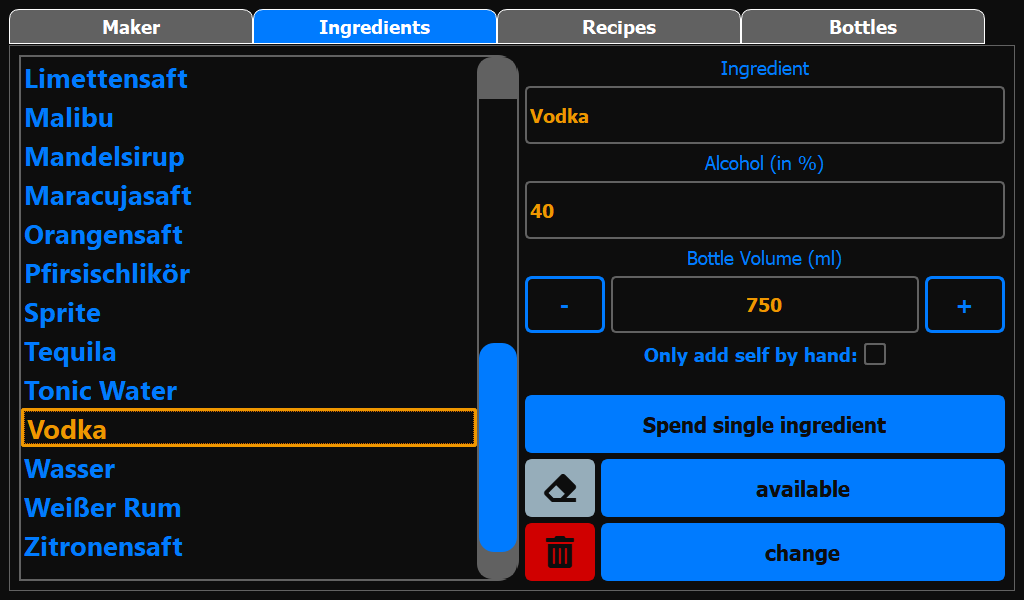
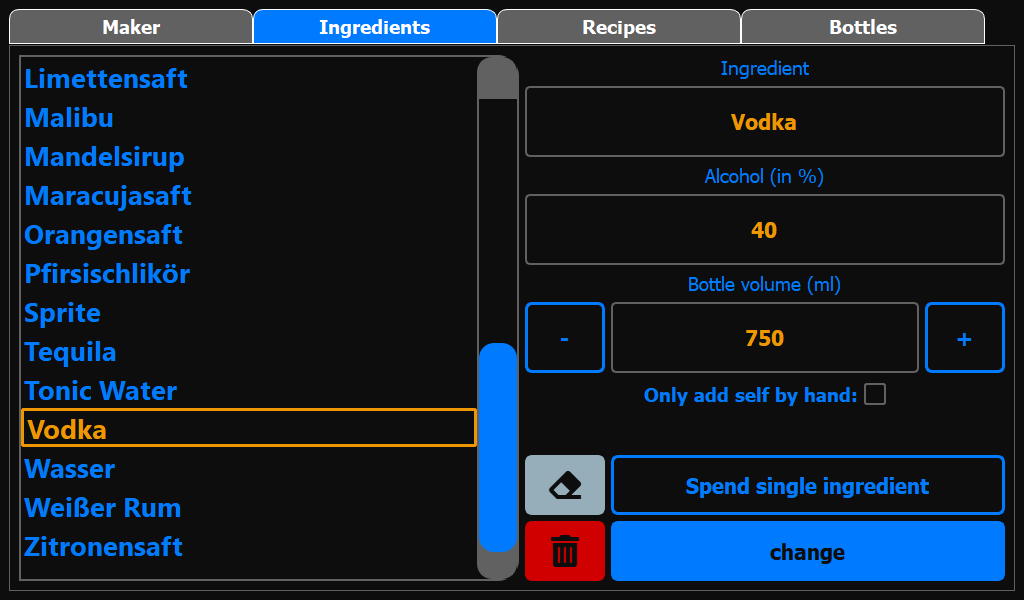
Updated to current layout

Changed region(s): [[0.5, 0.36, 1.0, 0.99], [0.5, 0.18, 1.0, 0.36], [0.75, 0.9, 0.8438, 0.96]]

diff --git a/src/ui_elements/cocktailmanager.py b/src/ui_elements/cocktailmanager.py
@@ -375,7 +375,7 @@ class Ui_MainWindow(object):
         self.gridLayout_6.setObjectName("gridLayout_6")
         self.PBZeinzelnd = QtWidgets.QPushButton(self.tab_ingredients)
         self.PBZeinzelnd.setMinimumSize(QtCore.QSize(0, 40))
-        self.PBZeinzelnd.setMaximumSize(QtCore.QSize(600, 200))
+        self.PBZeinzelnd.setMaximumSize(QtCore.QSize(16777215, 200))
         font = QtGui.QFont()
         font.setPointSize(16)
         font.setBold(True)
@@ -410,7 +410,7 @@ class Ui_MainWindow(object):
         self.horizontalLayout_21 = QtWidgets.QHBoxLayout()
         self.horizontalLayout_21.setObjectName("horizontalLayout_21")
         self.PBZminus = QtWidgets.QPushButton(self.tab_ingredients)
-        self.PBZminus.setMinimumSize(QtCore.QSize(80, 29))
+        self.PBZminus.setMinimumSize(QtCore.QSize(70, 29))
         self.PBZminus.setMaximumSize(QtCore.QSize(300, 200))
         font = QtGui.QFont()
         font.setPointSize(16)
@@ -431,7 +431,7 @@ class Ui_MainWindow(object):
         self.LEFlaschenvolumen.setObjectName("LEFlaschenvolumen")
         self.horizontalLayout_21.addWidget(self.LEFlaschenvolumen)
         self.PBZplus = QtWidgets.QPushButton(self.tab_ingredients)
-        self.PBZplus.setMinimumSize(QtCore.QSize(80, 29))
+        self.PBZplus.setMinimumSize(QtCore.QSize(70, 29))
         self.PBZplus.setMaximumSize(QtCore.QSize(300, 200))
         font = QtGui.QFont()
         font.setPointSize(16)
@@ -487,10 +487,10 @@ class Ui_MainWindow(object):
         self.gridLayout_6.addWidget(self.LEZutatRezept, 1, 0, 1, 3)
         self.horizontalLayout_24 = QtWidgets.QHBoxLayout()
         self.horizontalLayout_24.setObjectName("horizontalLayout_24")
-        spacerItem3 = QtWidgets.QSpacerItem(20, 20, QtWidgets.QSizePolicy.Expanding, QtWidgets.QSizePolicy.Minimum)
+        spacerItem3 = QtWidgets.QSpacerItem(40, 20, QtWidgets.QSizePolicy.Expanding, QtWidgets.QSizePolicy.Minimum)
         self.horizontalLayout_24.addItem(spacerItem3)
         self.CHBHand = QtWidgets.QCheckBox(self.tab_ingredients)
-        self.CHBHand.setMaximumSize(QtCore.QSize(300, 30))
+        self.CHBHand.setMaximumSize(QtCore.QSize(800, 30))
         font = QtGui.QFont()
         font.setPointSize(14)
         font.setBold(True)
@@ -501,7 +501,7 @@ class Ui_MainWindow(object):
         self.CHBHand.setTristate(False)
         self.CHBHand.setObjectName("CHBHand")
         self.horizontalLayout_24.addWidget(self.CHBHand)
-        spacerItem4 = QtWidgets.QSpacerItem(20, 20, QtWidgets.QSizePolicy.Expanding, QtWidgets.QSizePolicy.Minimum)
+        spacerItem4 = QtWidgets.QSpacerItem(40, 20, QtWidgets.QSizePolicy.Expanding, QtWidgets.QSizePolicy.Minimum)
         self.horizontalLayout_24.addItem(spacerItem4)
         self.gridLayout_6.addLayout(self.horizontalLayout_24, 6, 0, 1, 3)
         self.PBZdelete = QtWidgets.QPushButton(self.tab_ingredients)
@@ -1908,7 +1908,7 @@ class Ui_MainWindow(object):
         self.LBottleVolume.setText(_translate("MainWindow", "Flaschenvolume (ml)"))
         self.LEZutatRezept.setProperty("cssClass", _translate("MainWindow", "secondary bold"))
         self.CHBHand.setText(_translate("MainWindow", "Nur selbst hinzufügen:"))
-        self.CHBHand.setProperty("cssClass", _translate("MainWindow", "bold"))
+        self.CHBHand.setProperty("cssClass", _translate("MainWindow", "bold center"))
         self.PBZdelete.setText(_translate("MainWindow", "del"))
         self.PBZdelete.setProperty("cssClass", _translate("MainWindow", "btn-inverted destructive"))
         self.PBZclear.setText(_translate("MainWindow", "clear"))
